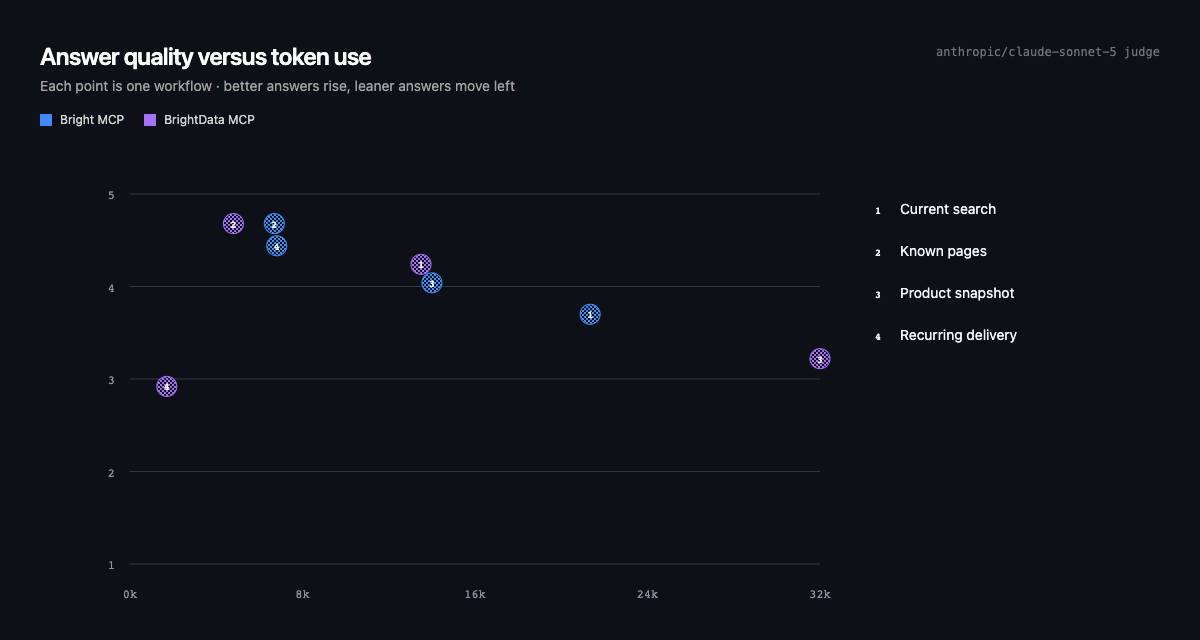
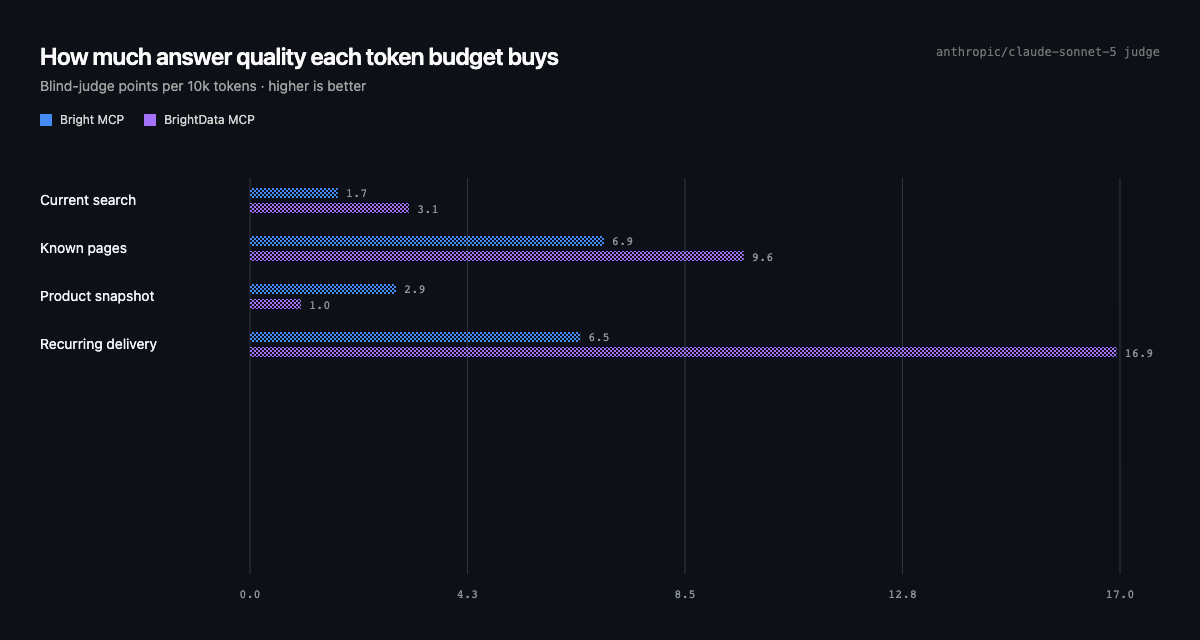
Replace opaque quality-cost plot with efficiency bars
Problem: the answer-quality versus token-use chart encoded workflows as numbered points, forcing readers to cross-reference positions and labels.

Why it matters: the central quality-versus-cost tradeoff was harder to decipher than the benchmark table.

Changed: show directly labeled paired horizontal bars for blind-judge quality points per 10k tokens, preserving the same workflow quality and token data.

Not changed: benchmark artifacts, scoring, token accounting, other charts, or the unrelated local site edit.

diff --git a/scripts/benchmark-chart.tsx b/scripts/benchmark-chart.tsx
@@ -53,8 +53,13 @@ function BenchmarkCharts() {
       <Chart id="benchmark-radar" title="How the answers compare" subtitle="Blind judge scores · every spoke uses the same 1–5 scale" meta={judgeModel}>
         <Radar dimensions={quality.dimensions} />
       </Chart>
-      <Chart id="benchmark-quality-cost" title="Answer quality versus token use" subtitle="Each point is one workflow · better answers rise, leaner answers move left" meta={`${judgeModel} judge`}>
-        <QualityCost tasks={tasks} />
+      <Chart id="benchmark-quality-cost" title="How much answer quality each token budget buys" subtitle="Blind-judge points per 10k tokens · higher is better" meta={`${judgeModel} judge`}>
+        <PairedBars
+          tasks={tasks}
+          value={(datum, task, server) => datum.averageTokens ? task.quality[server] * 10_000 / datum.averageTokens : 0}
+          domain={qualityEfficiencyDomain(tasks)}
+          format={(value) => value.toFixed(1)}
+        />
       </Chart>
       <Chart id="benchmark-efficiency" title="How many passing runs each token budget buys" subtitle="Benchmark passes per 10k total tokens · higher is better" meta={meta(model, runsPerCase)}>
         <PairedBars
@@ -99,7 +104,7 @@ function Legend() {
   );
 }
 
-function PairedBars({ tasks, value, domain, format }: { tasks: TaskDatum[]; value: (datum: ServerDatum) => number; domain: number; format: (value: number) => string }) {
+function PairedBars({ tasks, value, domain, format }: { tasks: TaskDatum[]; value: (datum: ServerDatum, task: TaskDatum, server: "bright" | "brightData") => number; domain: number; format: (value: number) => string }) {
   const x = (number: number) => plot.left + (number / domain) * (plot.right - plot.left);
   return (
     <svg viewBox="0 0 1120 460" role="img" className="h-full w-full">
@@ -107,8 +112,8 @@ function PairedBars({ tasks, value, domain, format }: { tasks: TaskDatum[]; valu
       {[0, 0.25, 0.5, 0.75, 1].map((tick) => <g key={tick}><line x1={x(domain * tick)} x2={x(domain * tick)} y1={plot.top} y2={plot.bottom} stroke="#30363d" /><text x={x(domain * tick)} y="454" textAnchor="middle" className="axis">{format(domain * tick)}</text></g>)}
       {tasks.map((task, index) => {
         const y = 56 + index * 48;
-        const bright = value(task.bright);
-        const brightData = value(task.brightData);
+        const bright = value(task.bright, task, "bright");
+        const brightData = value(task.brightData, task, "brightData");
         return <g key={task.label}>
           <text x="0" y={y + 5} className="label">{task.label}</text>
           <rect x={plot.left} y={y - 12} width={Math.max(1, x(bright) - plot.left)} height="10" fill="url(#blue-dither)" />
@@ -176,22 +181,6 @@ function Preference({ values }: { values: { brightData: number; bright: number; 
   </svg>;
 }
 
-function QualityCost({ tasks }: { tasks: TaskDatum[] }) {
-  const maxTokens = Math.max(...tasks.flatMap(({ bright, brightData }) => [bright.averageTokens, brightData.averageTokens]), 1);
-  const x = (tokens: number) => 90 + (tokens / maxTokens) * 690;
-  const y = (quality: number) => 420 - ((quality - 1) / 4) * 370;
-  return <svg viewBox="0 0 1120 460" role="img" className="h-full w-full">
-    <Patterns />
-    {[1, 2, 3, 4, 5].map((tick) => <g key={tick}><line x1="90" x2="780" y1={y(tick)} y2={y(tick)} stroke="#30363d" /><text x="75" y={y(tick) + 5} textAnchor="end" className="axis">{tick}</text></g>)}
-    {[0, 0.25, 0.5, 0.75, 1].map((tick) => <text key={tick} x={x(maxTokens * tick)} y="454" textAnchor="middle" className="axis">{Math.round(maxTokens * tick / 1000)}k</text>)}
-    {(["brightData", "bright"] as const).flatMap((server) => tasks.map((task, index) => <g key={`${server}-${task.label}`}>
-      <circle cx={x(task[server].averageTokens)} cy={y(task.quality[server])} r="10" fill={`url(#${server === "bright" ? "blue" : "purple"}-dither)`} stroke={colors[server]} />
-      <text x={x(task[server].averageTokens)} y={y(task.quality[server]) + 4} textAnchor="middle" className="point-number">{index + 1}</text>
-    </g>))}
-    {tasks.map((task, index) => <g key={task.label}><text x="835" y={70 + index * 42} className="point-number">{index + 1}</text><text x="860" y={70 + index * 42} className="label">{task.label}</text></g>)}
-  </svg>;
-}
-
 function Latency({ values }: { values: { brightData: number[]; bright: number[] } }) {
   const max = Math.max(...values.brightData, ...values.bright);
   const x = (milliseconds: number) => 85 + (milliseconds / max) * 980;
@@ -220,6 +209,13 @@ function meta(model: string, runs: number) {
 
 function efficiencyDomain(tasks: TaskDatum[]) {
   const maximum = Math.max(...tasks.flatMap(({ bright, brightData }) => [bright, brightData]).map((datum) => datum.averageTokens ? datum.passRate * 10_000 / datum.averageTokens : 0));
+  return Math.ceil(maximum * 2) / 2;
+}
+
+function qualityEfficiencyDomain(tasks: TaskDatum[]) {
+  const maximum = Math.max(...tasks.flatMap((task) => (["bright", "brightData"] as const).map((server) =>
+    task[server].averageTokens ? task.quality[server] * 10_000 / task[server].averageTokens : 0
+  )));
   return Math.ceil(maximum * 2) / 2;
 }
 